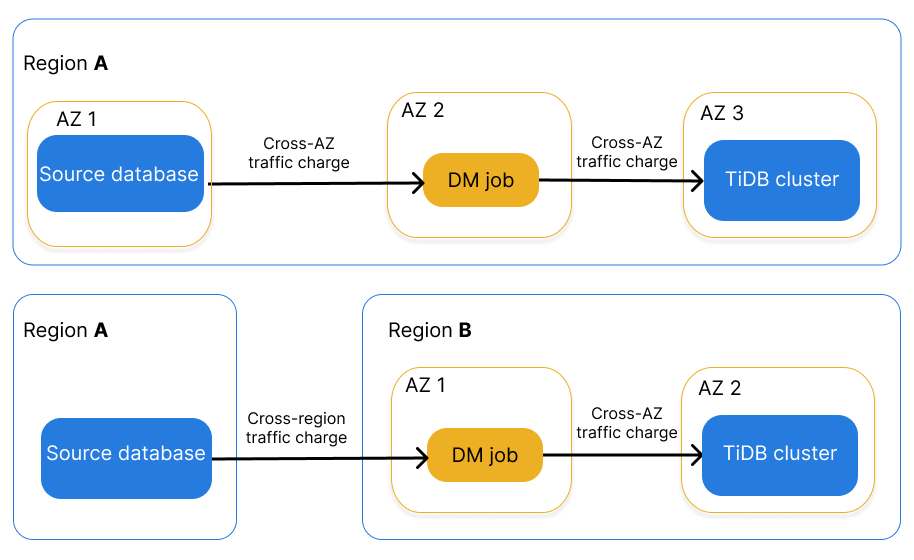
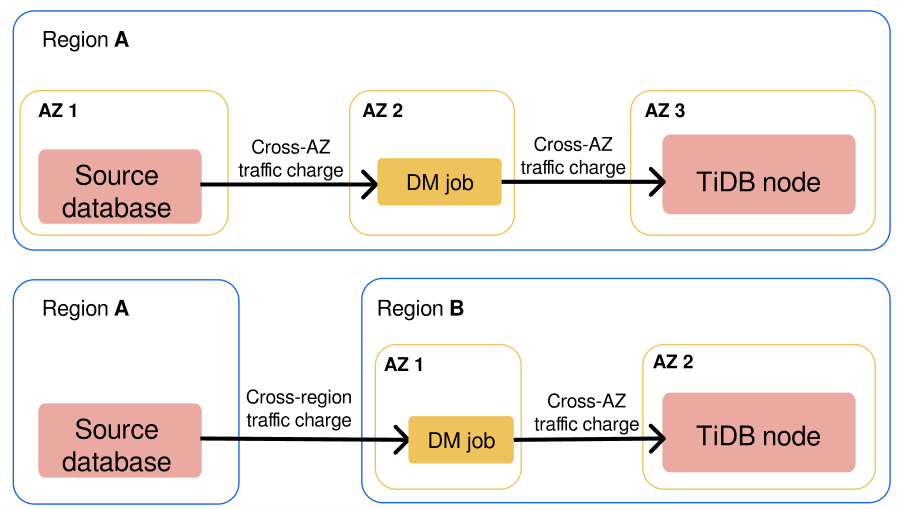
cloud: changed TiDB cluster to TiDB node, and updated pics (#14862)

Changed region(s): [[0.0, 0.0, 0.9912, 1.0], [0.4027, 0.1473, 0.6195, 0.2358]]

diff --git a/tidb-cloud/tidb-cloud-billing-dm.md b/tidb-cloud/tidb-cloud-billing-dm.md
@@ -30,19 +30,19 @@ The Data Migration job measures incremental data migration performance in rows/s
 
 To learn about the supported regions and the price of TiDB Cloud for each Data Migration RCU, see [Data Migration Cost](https://www.pingcap.com/tidb-cloud-pricing-details/#dm-cost).
 
-The Data Migration job is in the same region as the target TiDB cluster.
+The Data Migration job is in the same region as the target TiDB node.
 
-Note that if you are using AWS PrivateLink or VPC peering connections, and if the source database and the TiDB cluster are not in the same region or not in the same availability zone (AZ), two additional traffic charges will be incurred: cross-region and cross-AZ traffic charges.
+Note that if you are using AWS PrivateLink or VPC peering connections, and if the source database and the TiDB node are not in the same region or not in the same availability zone (AZ), two additional traffic charges will be incurred: cross-region and cross-AZ traffic charges.
 
-- If the source database and the TiDB cluster are not in the same region, cross-region traffic charges are incurred when the Data Migration job collects data from the source database.
+- If the source database and the TiDB node are not in the same region, cross-region traffic charges are incurred when the Data Migration job collects data from the source database.
 
     ![Cross-region traffic charges](/media/tidb-cloud/dm-billing-cross-region-fees.png)
 
-- If the source database and the TiDB cluster are in the same region but in different AZs, cross-AZ traffic charges are incurred when the Data Migration job collects data from the source database.
+- If the source database and the TiDB node are in the same region but in different AZs, cross-AZ traffic charges are incurred when the Data Migration job collects data from the source database.
 
     ![Cross-AZ traffic charges](/media/tidb-cloud/dm-billing-cross-az-fees.png)
 
-- If the Data Migration job and the TiDB cluster are not in the same AZ, cross-AZ traffic charges are incurred when the Data Migration job writes data to the target TiDB cluster. In addition, if the Data Migration job and the TiDB cluster are not in the same AZ (or region) with the source database, cross-AZ (or cross-region) traffic charges are incurred when the Data Migration job collects data from the source database.
+- If the Data Migration job and the TiDB node are not in the same AZ, cross-AZ traffic charges are incurred when the Data Migration job writes data to the target TiDB node. In addition, if the Data Migration job and the TiDB node are not in the same AZ (or region) with the source database, cross-AZ (or cross-region) traffic charges are incurred when the Data Migration job collects data from the source database.
 
     ![Cross-region and cross-AZ traffic charges](/media/tidb-cloud/dm-billing-cross-region-and-az-fees.png)
 
